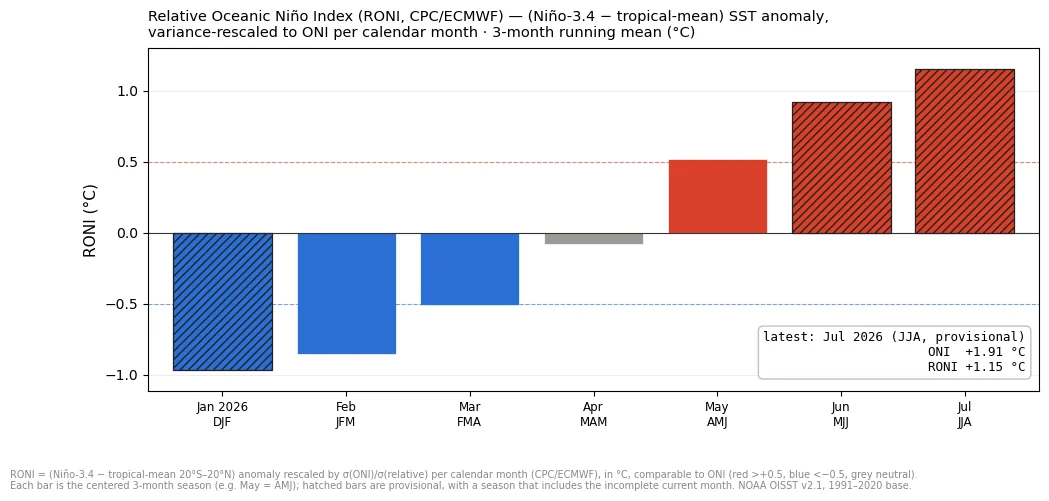
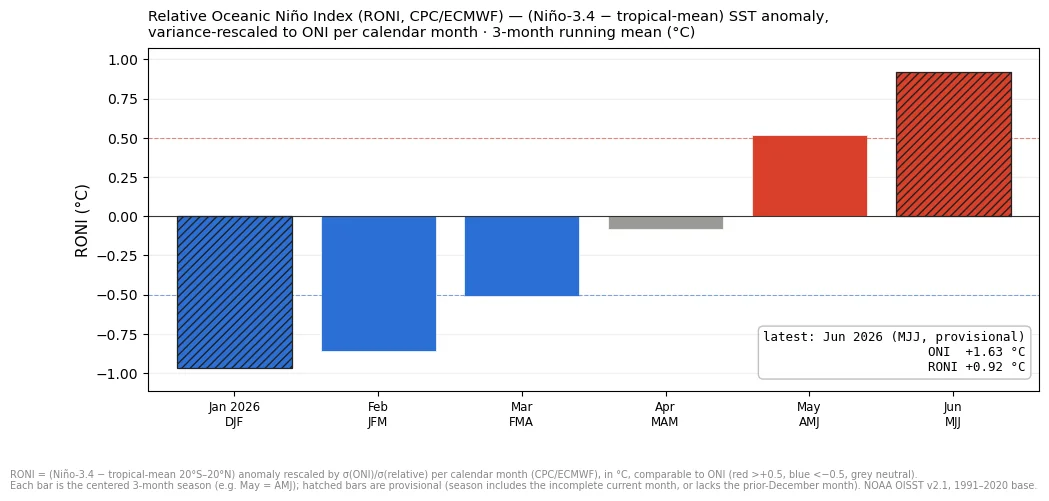
RONI chart: drop the season centered on the final data month
min_periods=1 let the July-centered JJA bar render from a Jun+Jul
two-month mean with no August data at all. compute_oni_roni now drops
that final centered season; MJJ becomes the terminal bar, hatched
provisional only while the current month is partial (new last_partial
flag threads through render_roni and the readout box).

diff --git a/scripts/sst/sst-roni.py b/scripts/sst/sst-roni.py
@@ -545,6 +545,12 @@ def compute_oni_roni(daily_anom, la, lo):
         "oni": oni.values,
         "roni": roni.values,
     }).dropna(subset=["oni", "roni"]).reset_index(drop=True)
+    # The season centered on the final data month (e.g. July → JJA) has NO data
+    # at all for its trailing month yet — min_periods=1 would happily draw it
+    # from a 2-month mean. Drop it: the prior month's season (MJJ) is the
+    # newest bar worth showing, provisional while the current month is partial.
+    if len(df) > 1:
+        df = df.iloc[:-1].reset_index(drop=True)
     return df
 
 
@@ -694,7 +700,8 @@ SEASONS = ["DJF", "JFM", "FMA", "MAM", "AMJ", "MJJ", "JJA", "JAS", "ASO", "SON",
 
 
 def render_roni(df: pd.DataFrame, out_path: Path,
-                latest_oni=None, latest_roni=None, latest_month=None):
+                latest_oni=None, latest_roni=None, latest_month=None,
+                last_partial=True):
     fig, ax = plt.subplots(figsize=(11.5, 5.2), dpi=100)
     roni_vals = df["roni"].values
     months = pd.to_datetime(df["month"])
@@ -712,11 +719,13 @@ def render_roni(df: pd.DataFrame, out_path: Path,
 
     ax.bar(x, roni_vals, width=0.8, color=colors, edgecolor="#fff",
            linewidth=0.5, zorder=2)
-    # A centered 3-month season is settled only when its three months are all complete. The
-    # current month is month-to-date, so BOTH it and the prior month (whose season includes it)
-    # are provisional; the first bar is also provisional (its season needs the prior-year month,
-    # absent from this year-to-date series). Hatch those.
-    prov = [i == 0 or i >= n - 2 for i in range(n)]
+    # A centered 3-month season is settled only when its three months are all complete.
+    # compute_oni_roni already drops the season centered on the final data month (its
+    # trailing month has no data at all), so the last bar here (e.g. MJJ in July) is
+    # provisional only while the current month is still partial. The first bar is always
+    # provisional: its season needs the prior-year month, absent from this year-to-date
+    # series. Hatch those.
+    prov = [i == 0 or (last_partial and i == n - 1) for i in range(n)]
     for i in range(n):
         if prov[i]:
             ax.bar(x[i], roni_vals[i], width=0.8, color=colors[i], edgecolor="#222",
@@ -754,7 +763,8 @@ def render_roni(df: pd.DataFrame, out_path: Path,
     if latest_roni is not None:
         oni_line = (f"ONI  {latest_oni:+.2f} \u00b0C\n"
                     if latest_oni is not None else "")
-        txt = (f"latest: {latest_month:%b %Y} ({SEASONS[latest_month.month - 1]}, provisional)\n"
+        _tag = ", provisional" if last_partial else ""
+        txt = (f"latest: {latest_month:%b %Y} ({SEASONS[latest_month.month - 1]}{_tag})\n"
                f"{oni_line}"
                f"RONI {latest_roni:+.2f} \u00b0C")
         ax.text(0.985, 0.05, txt, transform=ax.transAxes, fontsize=9,
@@ -767,8 +777,8 @@ def render_roni(df: pd.DataFrame, out_path: Path,
     fig.text(0.005, 0.012,
              "RONI = (Ni\u00f1o-3.4 \u2212 tropical-mean 20\u00b0S\u201320\u00b0N) anomaly rescaled by \u03c3(ONI)/\u03c3(relative) per calendar "
              "month (CPC/ECMWF), in \u00b0C, comparable to ONI (red >+0.5, blue <\u22120.5, grey neutral).\n"
-             "Each bar is the centered 3-month season (e.g. May = AMJ); hatched bars are provisional, with a "
-             "season that includes the incomplete current month. NOAA OISST v2.1, 1991\u20132020 base.",
+             "Each bar is the centered 3-month season (e.g. May = AMJ); hatched bars are provisional (season "
+             "includes the incomplete current month, or lacks the prior-December month). NOAA OISST v2.1, 1991\u20132020 base.",
              fontsize=7, color="#888")
 
     fig.subplots_adjust(bottom=0.20, top=0.86)   # room for the 2-line season ticks + footnote
@@ -879,9 +889,12 @@ def main(argv=None) -> int:
     dsd.close()
 
     # --- RONI time series chart (monthly, year-to-date) ---
+    # Is the newest bar's season still accumulating days? True unless the daily
+    # file already covers through the end of the latest data month.
+    last_partial = ((valid + pd.Timedelta(days=1)).month == valid.month)
     render_roni(idx, ASSETS / "roni.webp",
                 latest_oni=latest_oni, latest_roni=latest_roni,
-                latest_month=latest_month)
+                latest_month=latest_month, last_partial=last_partial)
     latest_roni_month = latest_month
 
     # --- Daily 3-metric chart (Nino-3.4, tropical-mean, relative) ---
